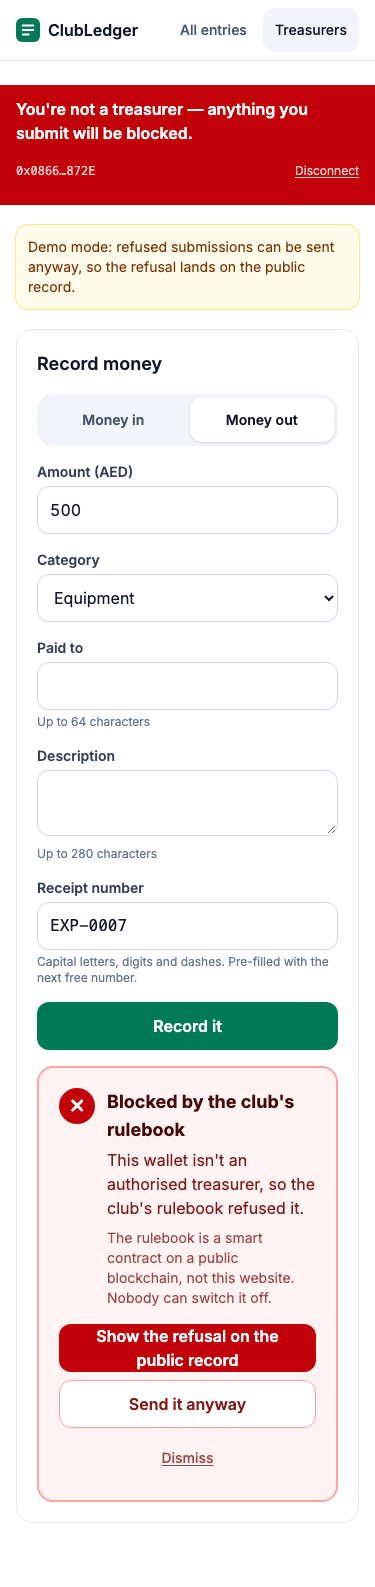
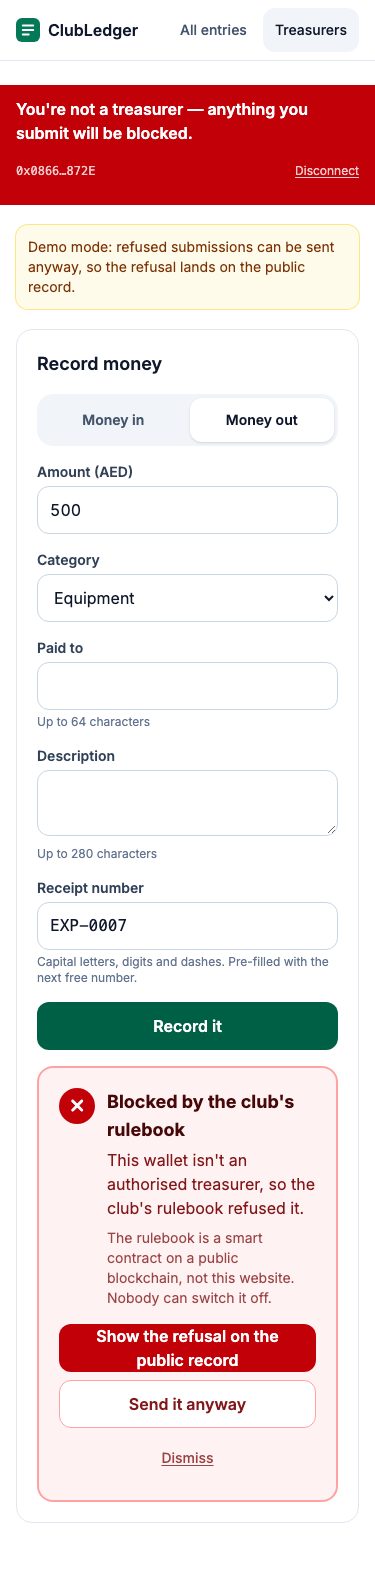
Final verification and submission pack

Changed region(s): [[0.088, 0.6175, 0.9093, 0.6793]]

diff --git a/PROGRESS.md b/PROGRESS.md
@@ -1,7 +1,37 @@
 # ClubLedger — PROGRESS
 
 ## Submission pack
-_(filled in Phase 7)_
+
+- **Repo:** https://github.com/AryB16/clubledger
+- **Live URL:** https://clubledger-kappa.vercel.app
+- **Contract (Base Sepolia):** `0x210312F9C553a02A9864CC9685854A72d49D4F7e`
+  - BaseScan: https://sepolia.basescan.org/address/0x210312F9C553a02A9864CC9685854A72d49D4F7e (verification pending)
+  - Verified source, Sourcify exact match: https://sourcify.dev/server/v2/contract/84532/0x210312F9C553a02A9864CC9685854A72d49D4F7e
+- **Successful transactions**
+  - Treasurer authorisation: https://sepolia.basescan.org/tx/0x95043c0bd4a1f27d559d2cac015da03dc18e0feea24e8ac336fe6e721c9d8556
+  - INC-0001 post: https://sepolia.basescan.org/tx/0xec9f42c3aee54860222a41fbdc8ee11d7fe9b0eaf7d12e4306751dc0fff9773d
+- **Refused transactions (status 0)**
+  - Rule 1, not an authorised treasurer: https://sepolia.basescan.org/tx/0xd257bd631b24a9cc76984cabc3e6a0a90cc63a8818d7441089be5df9fb6ce540
+  - Rule 2, books never negative: https://sepolia.basescan.org/tx/0x09a7394a12ace66719cd6039ab7888a9f550612ea62e7b6259c3f2395fa166dd
+  - Rule 3, receipt recorded once: https://sepolia.basescan.org/tx/0xfc4b3fec2641bcde6acdbbebf34bc67dc20de5c8f1e21034e63397ba556bd8ba
+  - Rule 4, no edits, only corrections: https://sepolia.basescan.org/tx/0x292a91339f29dc1b3cdabc6b1ade0bfbfed476085e559f2016f555e4b305a96d
+- **Note:** https://github.com/AryB16/clubledger/blob/main/NOTE.md
+- **Who did what:** https://github.com/AryB16/clubledger/blob/main/WHO_DID_WHAT.md
+
+## Human checklist (H4)
+
+- [ ] Verify on BaseScan from a network that resolves `api.etherscan.io` (command in Phase 7 below), then change "pending" in README.md, DEPLOYMENT.md and this file.
+- [ ] Review the contract and tests, then tick the two boxes in WHO_DID_WHAT.md.
+- [ ] Import Admin, Treasurer and Asst. Treasurer private keys from `contracts/.env` into MetaMask (named "Advisor (admin)", "Treasurer", "Asst. Treasurer"), Base Sepolia network.
+- [ ] Create a second Chrome profile; import Random member there only (this is the judge's "attacker" browser).
+- [ ] On your phone (mobile data): open the three receipt QR codes; confirm Corrected / Cancelled / Genuine.
+- [ ] Live test as Random member on `/manage?demo=1`: blocked card appears; "Send it anyway" creates a failed tx on BaseScan.
+- [ ] Stranger test: hand your phone to someone, say only "Check receipt EXP-0002".
+- [ ] Ask 3 mentors (log in WHO_DID_WHAT.md): correction model; UX confusion; pitch dry-run.
+- [ ] Record the ≤ 3-min video (SPEC §4 item 5).
+- [ ] Print `docs/receipts.html`.
+- [ ] Submit all 6 items by **Mon night**; hard stop Tue 13:00.
+- [ ] Do NOT post EXP-0007 before judging — it's the live demo entry.
 
 ---
 
@@ -147,3 +177,21 @@ Throwaway testnet wallets (keys only in git-ignored `contracts/.env`):
 - Final redeploy, then full Playwright suite on production → 23 passed, 0 failed, 5 skipped (local-only).
 - RPC-down message on all 3 public pages; fallback RPC works; layout shift below 0.1 on all 3.
 - `docs/receipts.html` opens with 3 receipts and 3 loaded QR images. The PNGs were decoded with macOS CoreImage → exact production URLs.
+
+---
+
+## Phase 7 — Final verification and hand-off — ✅ DONE (one open failure: BaseScan verification)
+
+**All gates re-run**
+- G0: RPC → 84532; tools and repo OK.
+- G1: 4 wallets non-zero; `.env` ignored.
+- G2: fresh GitHub clone → 29 Foundry tests passed; anvil deploy + seed → 458000.
+- G3: 458000 and 12 entries; EXP-0002 has 2 versions; EXP-0007 unused; 4 refusals status 0x0 with exact reasons.
+- G4–G6: Playwright on production → 23 passed, 5 skipped (local-only); Vitest 90; check-refusals all passed; the local write-flow suite re-run on a fresh chain → 5 passed.
+- Secrets: 0 key values in full git history, build or live bundle.
+
+**BaseScan verification retried → failed again** (local DNS returns NXDOMAIN for `api.etherscan.io`). From another network (e.g. a phone hotspot):
+
+```bash
+cd ~/Documents/clubledger/clubledger/contracts && (set -a; . ./.env; set +a; ~/.foundry/bin/forge verify-contract 0x210312F9C553a02A9864CC9685854A72d49D4F7e src/ClubLedger.sol:ClubLedger --chain 84532 --verifier etherscan --watch --constructor-args 0x0000000000000000000000000000000000000000000000000000000000000020000000000000000000000000000000000000000000000000000000000000001f4249545320447562616920526f626f7469637320436c7562202864656d6f2900)
+```
